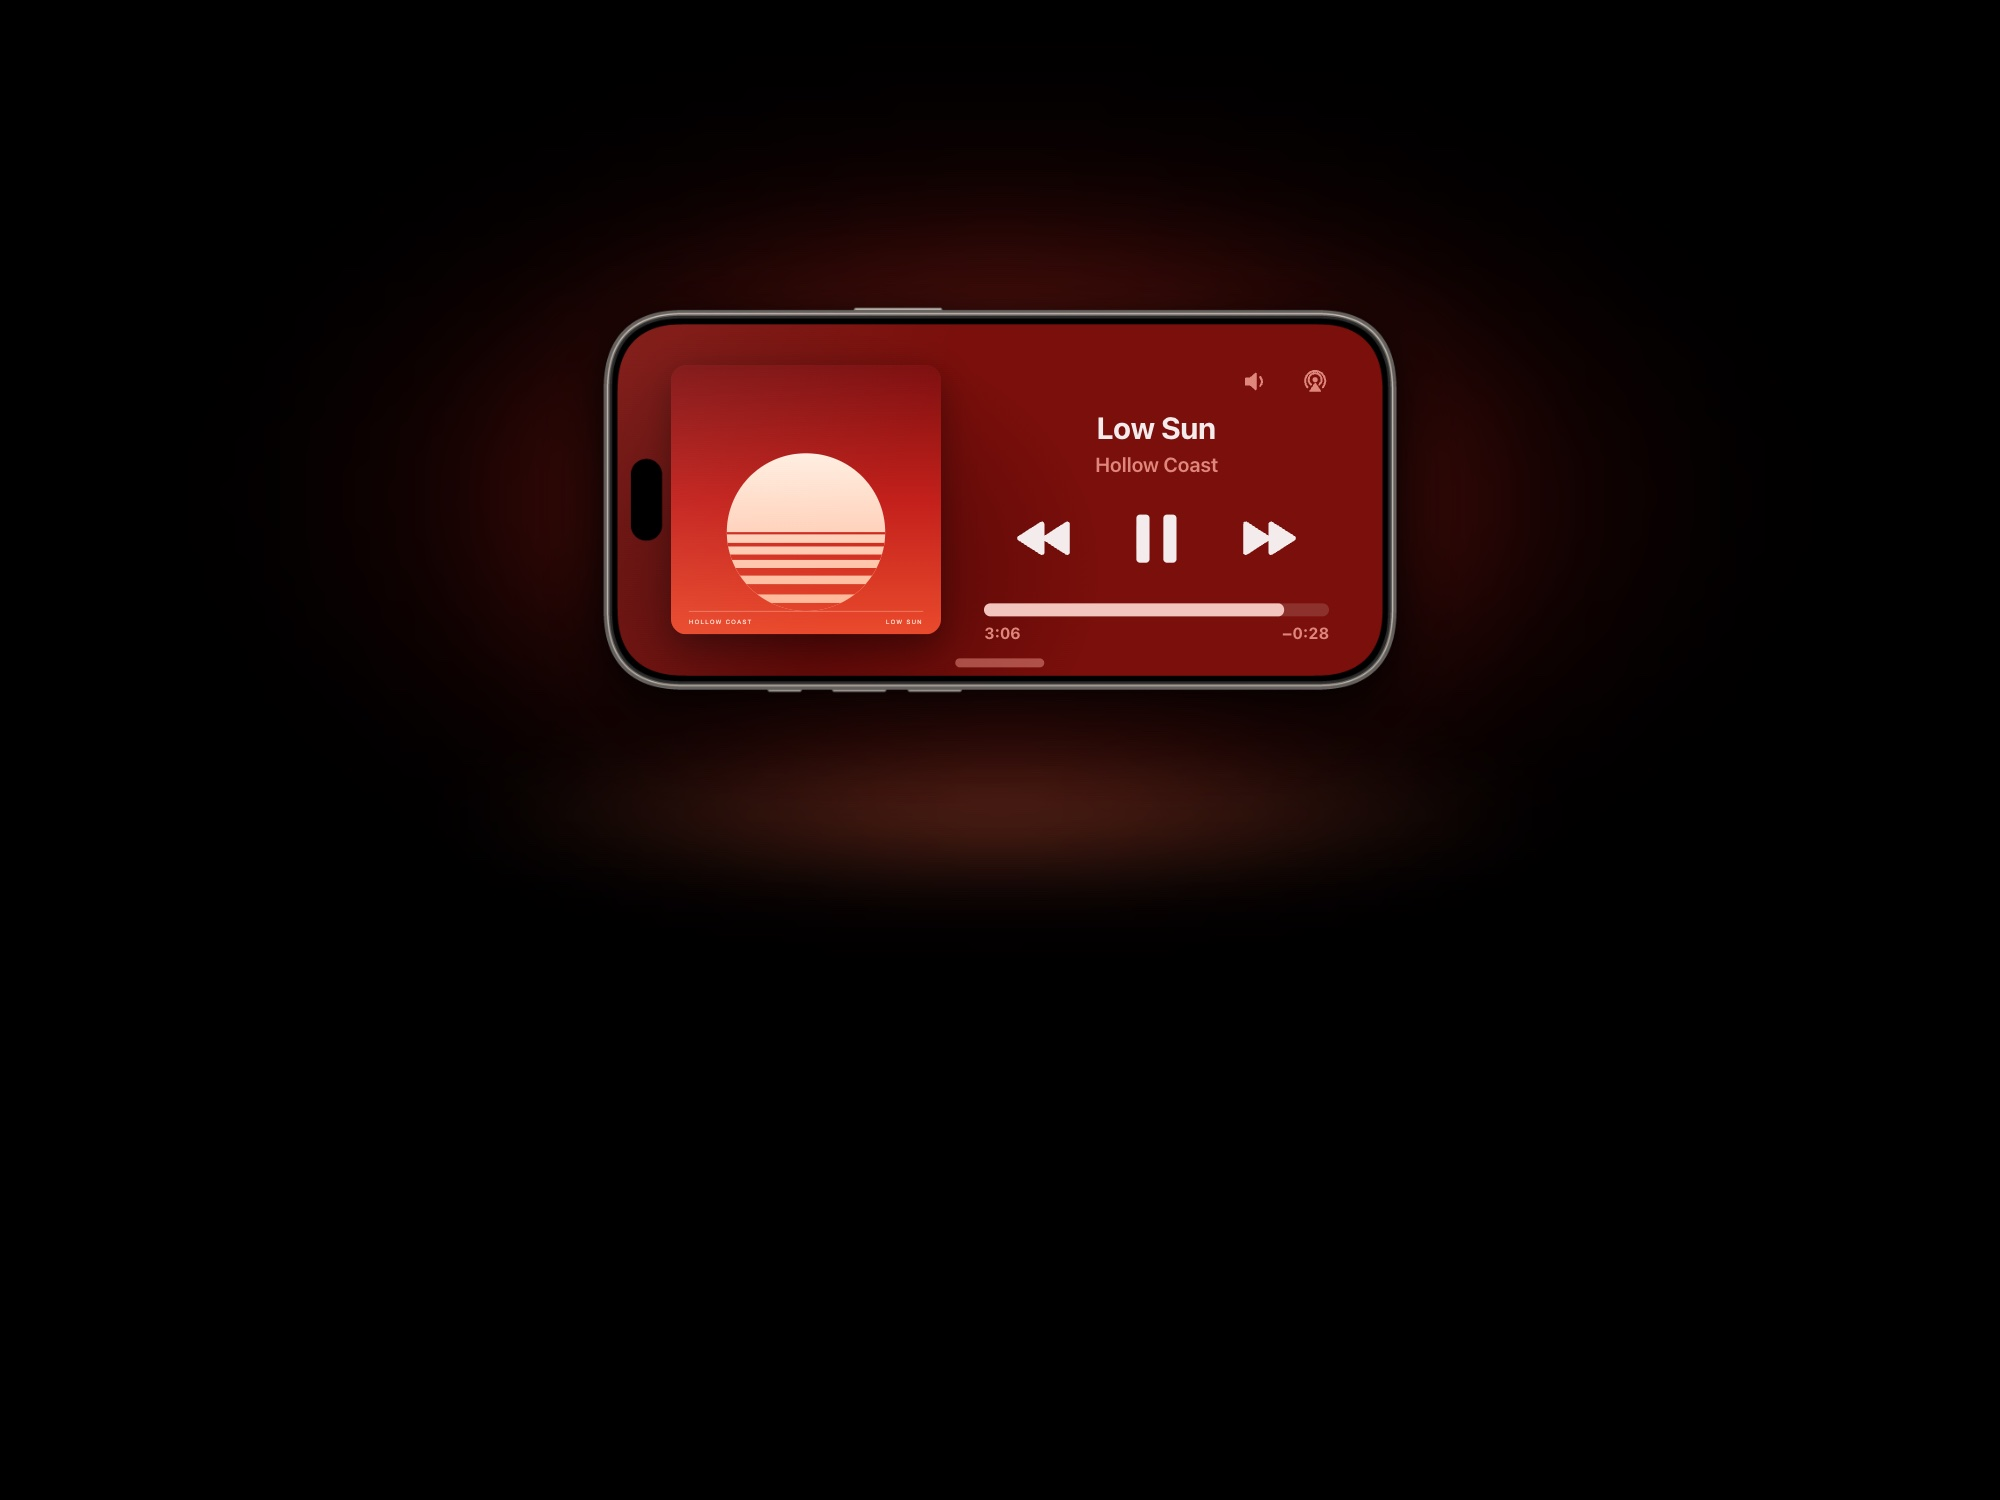
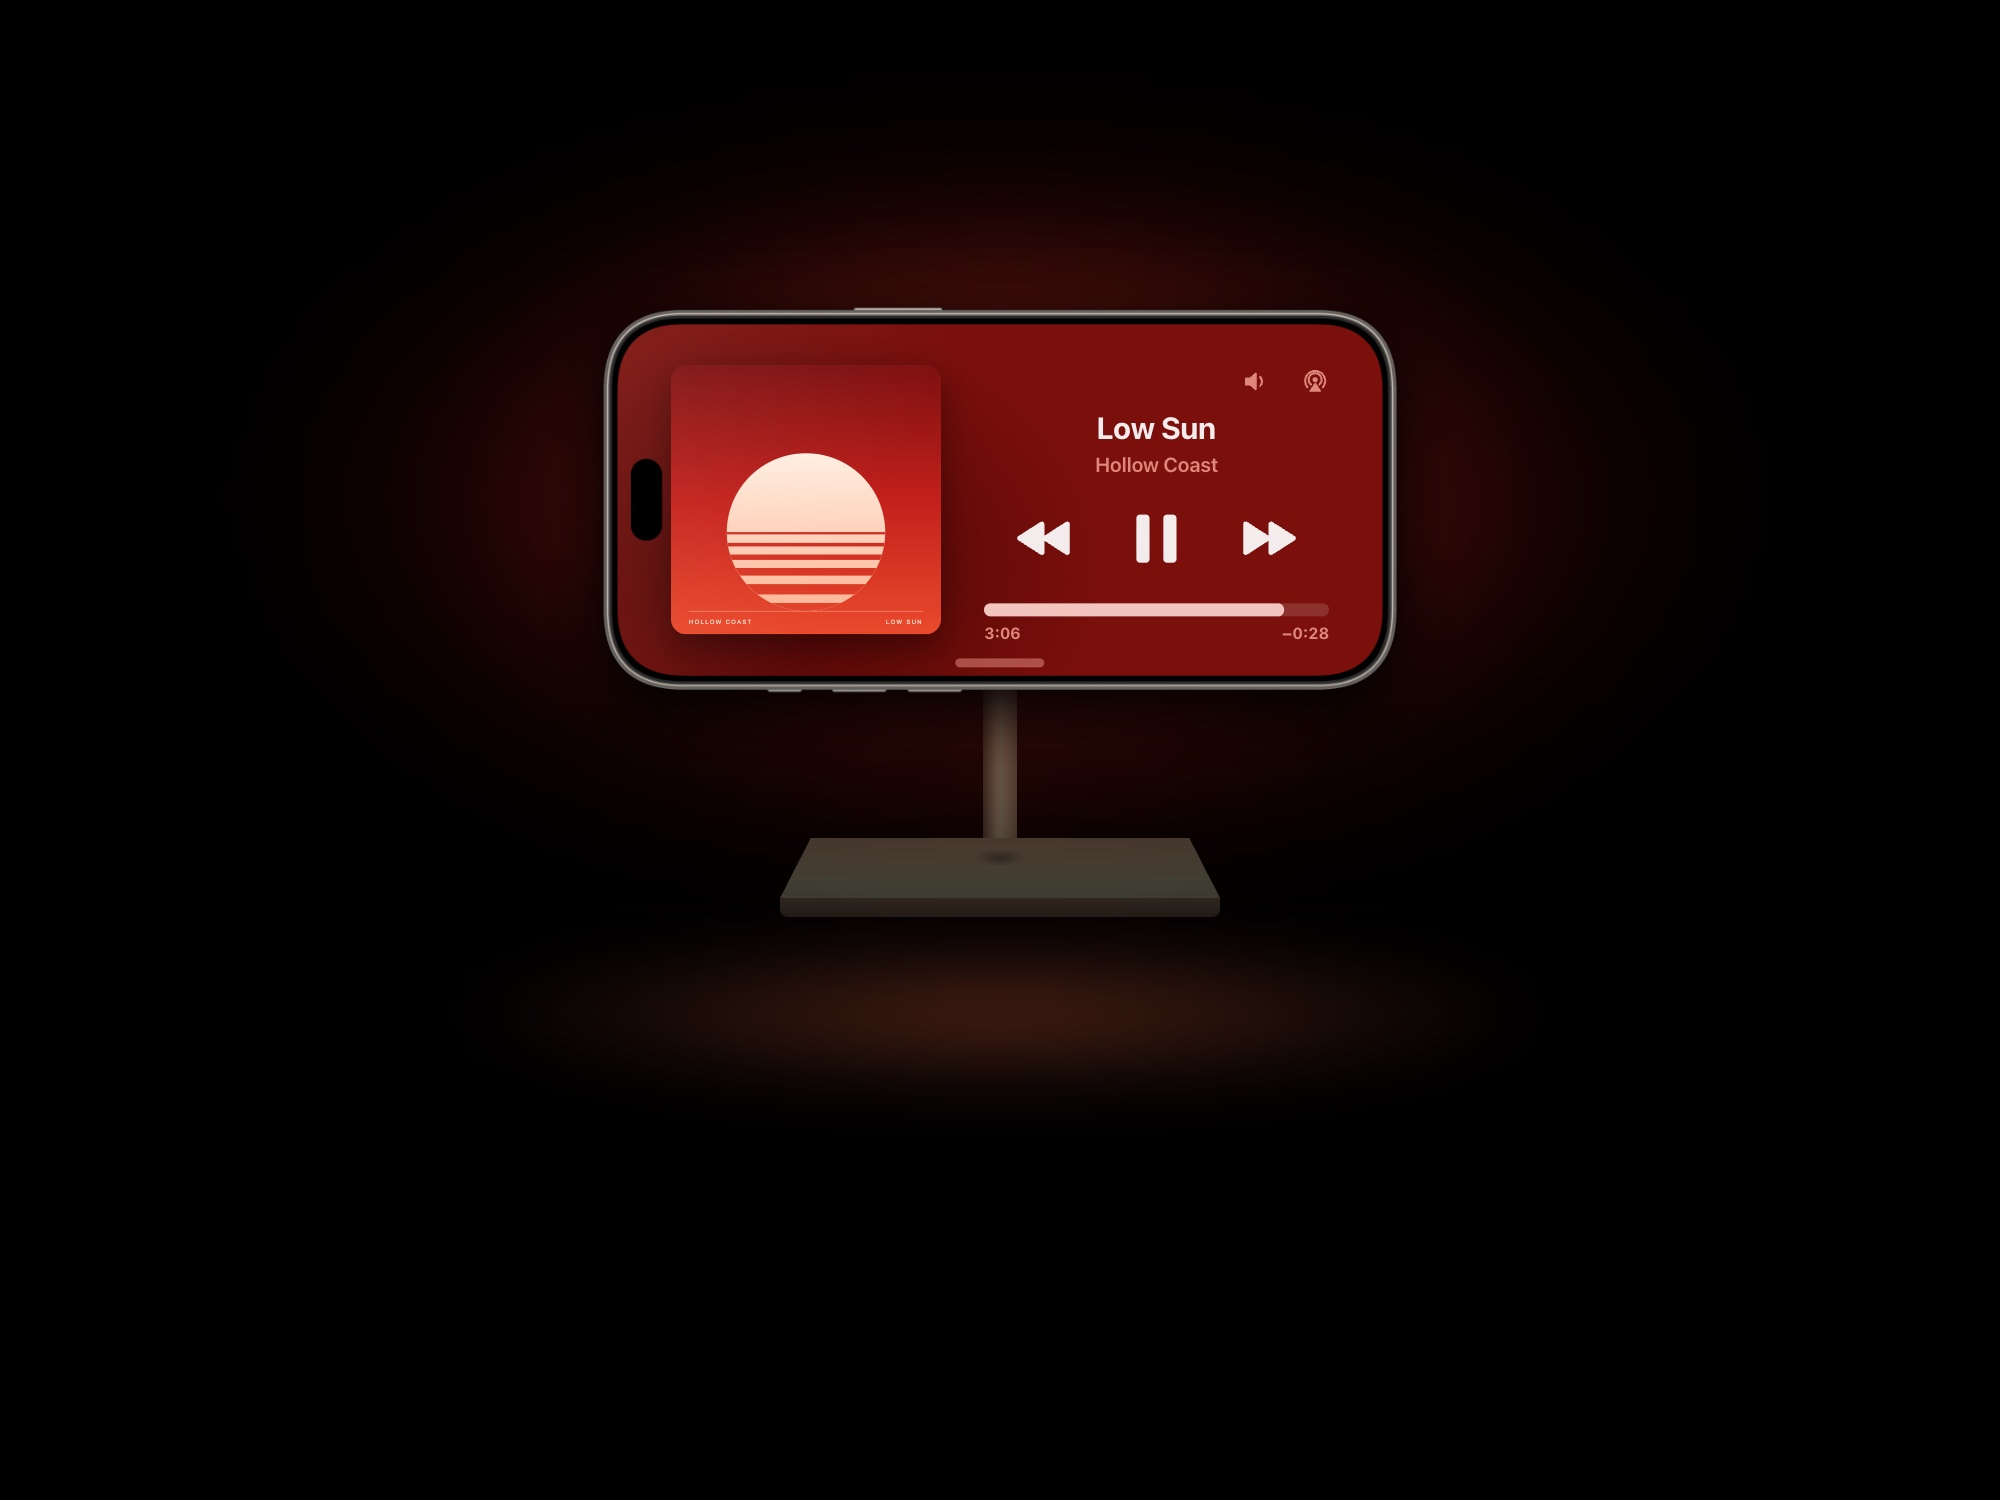
Home: the Second Chair slide on a faded StandBy stand, phone centred

Changed region(s): [[0.341, 0.46, 0.682, 0.736]]

diff --git a/second-chair/_docs/slide.html b/second-chair/_docs/slide.html
@@ -23,9 +23,24 @@
           --phone-drop: drop-shadow(0 3cqw 5cqw rgba(0, 0, 0, .85)) drop-shadow(0 .8cqw 1.4cqw rgba(0, 0, 0, .6)); }
   /* #desktop: the wider desktop crop (2400×1200), with a bigger phone right of the title. */
   html.desktop, html.desktop body, .desktop .hero { width: 2400px; height: 1200px; }
-  .desktop .glow { left: 1300px; top: 450px; width: 2000px; height: 1000px; }
-  .desktop .floor { left: 1300px; top: 760px; width: 1500px; height: 200px; }
-  .desktop .hero .hero-standby { left: 1300px; top: 450px; width: 1180px; }
+  .desktop .glow { left: 1200px; top: 420px; width: 2000px; height: 1000px; }
+  .desktop .floor { left: 1200px; top: 760px; width: 1500px; height: 200px; }
+  .desktop .hero .hero-standby { left: 1200px; top: 380px; width: 1100px; }
+  /* A MagSafe stand behind the phone, as in Apple's StandBy photographs, faded into the dark. Sized from the
+     phone's width (--pw) and placed from the phone's bottom edge (--pb) and centre (--cx). */
+  .stand { position: absolute; left: var(--cx); top: calc(var(--pb) - .06 * var(--pw)); width: calc(.55 * var(--pw)); transform: translateX(-50%);
+           z-index: -1; opacity: .42; -webkit-mask: linear-gradient(#000 35%, rgba(0,0,0,.55)); mask: linear-gradient(#000 35%, rgba(0,0,0,.55)); }
+  .stand .pole { margin: 0 auto; width: calc(.042 * var(--pw)); height: calc(.27 * var(--pw)); border-radius: calc(.012 * var(--pw)) calc(.012 * var(--pw)) 0 0;
+           background: linear-gradient(90deg, #6e625c, #d9cfc8 38%, #efe8e2 52%, #a99d96); }
+  .stand .top { height: calc(.075 * var(--pw)); margin-top: calc(-.03 * var(--pw)); clip-path: polygon(7% 0, 93% 0, 100% 100%, 0 100%);
+           background: linear-gradient(180deg, #b9aea7, #ece5df 70%, #f6f0ea); position: relative; }
+  .stand .top::after { content: ""; position: absolute; left: 50%; top: 18%; width: calc(.06 * var(--pw)); height: 30%; transform: translateX(-50%);
+           border-radius: 50%; background: radial-gradient(closest-side, rgba(0,0,0,.35), transparent); }
+  .stand .front { height: calc(.024 * var(--pw)); border-radius: 0 0 calc(.01 * var(--pw)) calc(.01 * var(--pw)); background: linear-gradient(180deg, #a59991, #7c706a); }
+  .stand > * { filter: sepia(.45) saturate(1.5) brightness(.9); }   /* lit by the red screen */
+  .hero { --pw: 800px; --cx: 1000px; --pb: 694px; }
+  .desktop .hero { --pw: 1100px; --cx: 1200px; --pb: 646px; }
+  .floor { top: calc(var(--pb) + .3 * var(--pw)) !important; }
 </style>
 <script>if (location.hash === '#desktop') document.documentElement.classList.add('desktop');</script>
 </head><body>
@@ -46,7 +61,7 @@
   <symbol id="i-iphone-arrow" viewBox="0 0 24 24"><path d="M5.6 2h4.8C11.8 2 13 3.2 13 4.6v14.8c0 1.4-1.2 2.6-2.6 2.6H5.6C4.2 22 3 20.8 3 19.4V4.6C3 3.2 4.2 2 5.6 2zm0 1.6c-.6 0-1 .4-1 1v14.8c0 .6.4 1 1 1h4.8c.6 0 1-.4 1-1V4.6c0-.6-.4-1-1-1z"/><path d="M15.4 12h6m0 0-2.7-2.7m2.7 2.7-2.7 2.7" fill="none" stroke="currentColor" stroke-width="1.8" stroke-linecap="round" stroke-linejoin="round"/></symbol>
   <symbol id="i-iphone" viewBox="0 0 24 24"><path d="M8.6 2h6.8c1.4 0 2.4 1 2.4 2.4v15.2c0 1.4-1 2.4-2.4 2.4H8.6c-1.4 0-2.4-1-2.4-2.4V4.4C6.2 3 7.2 2 8.6 2zm0 1.6c-.5 0-.8.3-.8.8v15.2c0 .5.3.8.8.8h6.8c.5 0 .8-.3.8-.8V4.4c0-.5-.3-.8-.8-.8h-1.2c0 .5-.3.8-.8.8h-2.4c-.5 0-.8-.3-.8-.8z"/></symbol>
 </svg>
-<div class="hero"><div class="glow"></div><div class="floor"></div>
+<div class="hero"><div class="glow"></div><div class="floor"></div><div class="stand" aria-hidden="true"><div class="pole"></div><div class="top"></div><div class="front"></div></div>
 <!-- The iPhone, in StandBy -->
         <div class="phone phone--landscape hero-phone hero-standby" data-surface="iphone">
           
